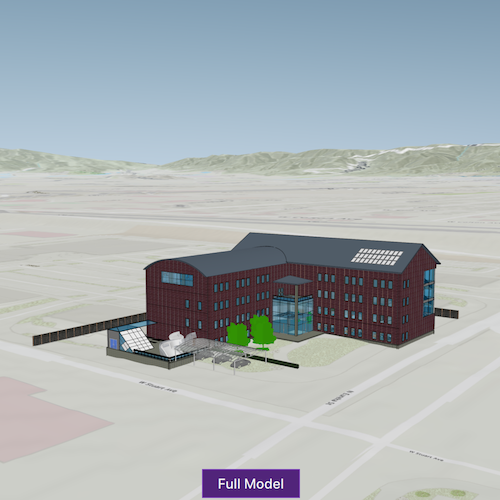
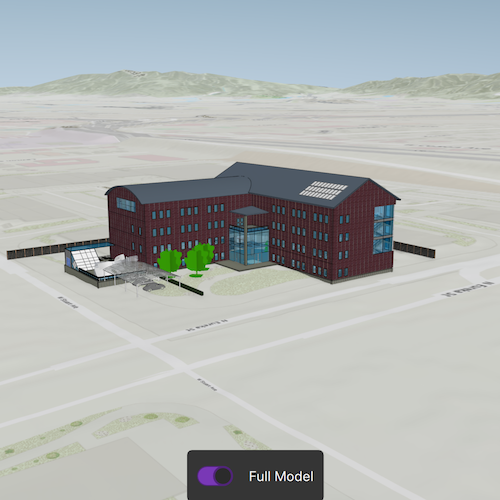
BuildingSceneLayer sample (Layers) - changed button to switch

diff --git a/CppSamples/Layers/AddBuildingSceneLayer/AddBuildingSceneLayer.qml b/CppSamples/Layers/AddBuildingSceneLayer/AddBuildingSceneLayer.qml
@@ -28,6 +28,26 @@ Item {
             // Set and keep the focus on SceneView to enable keyboard navigation
             forceActiveFocus();
         }
+
+        Rectangle {
+            anchors {
+                horizontalCenter: parent.horizontalCenter
+                bottom: view.attributionTop
+            }
+            width: fullModelButton.width + 20
+            height: fullModelButton.height + 20
+            color: palette.base
+            radius: 5
+            visible: model.layerLoaded
+
+            Switch {
+                id: fullModelButton
+                anchors.centerIn: parent
+                text: qsTr("Full Model")
+                checkable: true
+                onCheckedChanged: model.setFullModelAndOverviewVisibility(checked)
+            }
+        }
     }
 
     // Declare the C++ instance which creates the scene etc. and supply the view
@@ -36,16 +56,6 @@ Item {
         localSceneView: view
     }
 
-    Button {
-        id: fullModelButton
-        anchors {
-            horizontalCenter: view.horizontalCenter
-            bottom: view.bottom
-            bottomMargin: 30
-        }
-        text: qsTr("Full Model")
-        visible: model.layerLoaded
-        checkable: true
-        onCheckedChanged: model.setFullModelAndOverviewVisibility(checked)
-    }
+
 }
+
